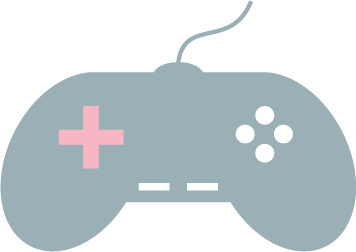
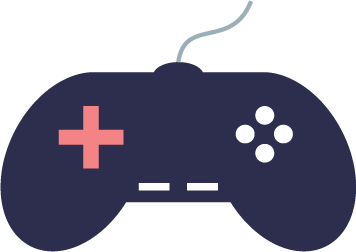
updated color scheme

diff --git a/assets/styles/index.css b/assets/styles/index.css
@@ -10,8 +10,8 @@ body {
   width: 100%;
   margin: auto;
 
-  background-color: #FEF8D3;
-  color: #3A405A;
+  background-color: #DFE0F6;
+  color: #2E2D4D;
   font-family: 'Montserrat', sans-serif;
 }
 
@@ -58,7 +58,7 @@ img {
 
 .circle {
   border-radius: 50%;
-  background-color: #3A405A;
+  background-color: #2E2D4D;
 
   margin: 0.5%;
   width: 2%;
